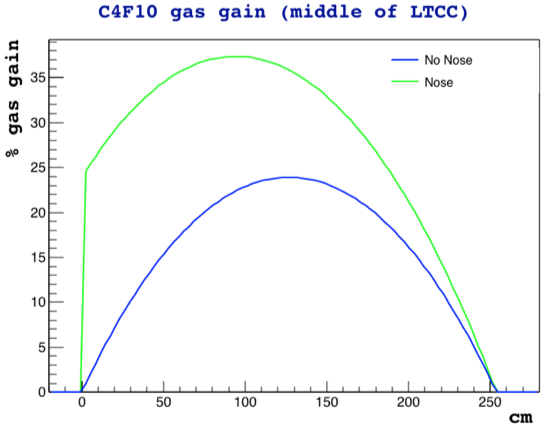
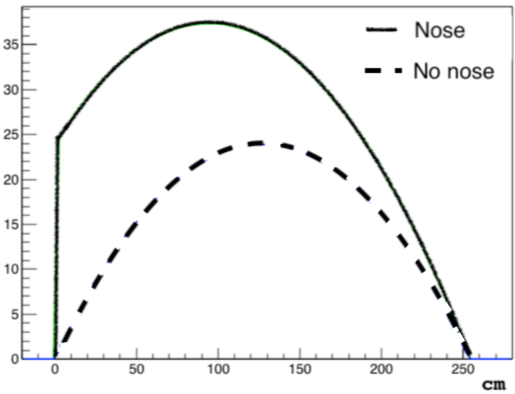
box corrections

diff --git a/ltcc/box.tex b/ltcc/box.tex
@@ -1,13 +1,14 @@
 \subsection{Box cut and support relocation }
 
-In the CLAS12 design upgrade the space between the Drift Chambers and the Forward Time-Of-Flight system was reduced.
-In order to accommodate the LTCC in the new space, the original aluminum frame has been modified with a cut, see \F{boxCut}. The mounting structure
-of the three mirror sets involved in the cut were repositioned: new threaded holes were drilled in the frame, and the old holes were plugged and sealed.
+In the CLAS12 design upgrade the space between the Drift Chambers and the Forward Time-Of-Flight system was reduced from 2 m to 1.5 m.
+In order to accommodate the LTCC in the new space, the original aluminum frame has been modified with a cut, see \F{boxCut}.
+The mounting structure of the three mirror sets involved in the cut were repositioned. For this work, new threaded holes were
+drilled in the frame and the old holes were plugged and sealed.
 
 \begin{figure}
 	\centering
 	\includegraphics[width=1.0\columnwidth, height=0.75\columnwidth]{img/boxCut.png}
-	\caption{The refurbished LTCC frame. Originally the frame walls had a 5m radius sphere centered on the target profile.
+	\caption{The refurbished LTCC box frame. Originally the frame walls had a 5m radius sphere centered on the target profile.
             The side-walls had to be cut near the top part of the box and the three mirror sets involved had to be relocated.
 				At the bottom of the box, a stainless steel nose window support was added to the original detector to increase the gas volume.}
 	\label{fig:boxCut}
@@ -16,33 +17,33 @@ of the three mirror sets involved in the cut were repositioned: new threaded hol
 
 \subsection{Nose addition and window inflation}
 
-In the original design the upstream window followed the spherical curvature of the frame sidewalls. In the new design, the window is left to inflate
-to enlarge the gas volume in order to increase the number of Cherenkov photons. In addition, a ``nose'' support (see \F{boxCut}) has been engineered to
-increase the gas volume.
-The nose dimensions have been optimized to provide the best support while at the same time maximize the gas volume increase. The gas volume increase
-of the final configuration is shown in \F{noseVolume}.
+In the original design the upstream window followed the spherical curvature of the frame sidewalls. In the new system, the window is
+designed to inflate to enlarge the gas volume in order to increase the number of Cherenkov photons. In addition, a ``nose''
+support (see \F{boxCut}) has been engineered to increase the gas volume.
+The nose dimensions have been optimized to provide the necessary support, while at the same time, maximizing the gas volume increase.
+The gas volume increase of the final configuration is shown in \F{noseVolume}.
 
 
 \begin{figure}
 	\centering
 	\includegraphics[width=0.98\columnwidth, height=0.7\columnwidth]{img/noseVolume.png}
 	\caption{The gas volume percentage gains with and without the nose addition compared to the old CLAS configuration as a function of
-            distance from the nose in cm. Blue: the percentage increase due to the window inflation compared to the original flat design.
-            Green: the additional percentage increase due to the nose addition.}
+            distance from the nose in cm. Dashed: the percentage increase due to the window inflation compared to the original flat design.
+            Solid: the additional percentage increase due to the nose addition.}
 	\label{fig:noseVolume}
 \end{figure}
 
 
 \subsection{Back-wall and connectors}
 
-Both the high voltage and the signals connector that link the PMTs inside the hermetical box and the electronics were not
+Both the high voltage and the signal connectors that link the PMTs inside the LTCC box and the electronics were not
 hermetical during CLAS operations and epoxy was used to minimize the leaks from these connectors.
 As part of the back-wall refurbishment, the patch panel was rebuilt and hermetical connectors were used.
 
 The new back wall design is shown in \F{backWall}. The wall is supported by stainless steel bars that enclose a panel made of foam enclosed by
 thin aluminum sheets to minimize the radiation length.
 The new patch panels provide 3 connectors for each PMT: one for high voltage and two for an identical signal coming from the modified PMT base.
-One signal is digitized through flash ADC and the other one through a discriminator TDC.
+One signal is digitized through a flash ADC and the other one through a discriminator TDC.
 
 \begin{figure}
 	\centering
@@ -55,15 +56,20 @@ One signal is digitized through flash ADC and the other one through a discrimina
 
 \subsection{Mirror support spine}
 
-When opened for refurbishment, the mirror support spine of all six LTCC sectors were found to be broken. The spine was an aluminum honeycomb designed to prevent
-the mirrors from breaking under their own weight. It was attached to the box nose and the back-wall. The spine was rigid and broke due to small
+When the LTCC boxes were opened for refurbishment, the mirror support spine of all six LTCC sectors were found to be broken.
+The spine was an aluminum honeycomb designed to prevent the mirrors from breaking under their own weight.
+It was attached to the box nose and the back-wall. The spine was rigid and broke due to small
 (of the order of 0.5 cm) deformations of the box when it was transported and/or installed.
-A new carbon fiber spine, see \F{spine}, was designed capable of floating up to 1 cm, effectively compensating for the non rigid movements of the box.
-The mirrors are linked to the spine through stainless steel cables 0.127 mm thick. The cables were anchored with stainless steel springs with tension varying from 0.5 to 1 Kg.
-The spine was tested by mounting a laser on the box. Its laser line was focused through the elliptical and hyperbolic mirrors to a target in the middle of the covered face of a PMT.
-In order to verify that the detector transportation and/or installation would not break the spine nor affect the mirror alignment, the box was lifted,
-rotated back and forth by 90 degrees, and subjected to small vibrations, see \F{spineTest}. The focused spot on the PMT did not change with any of these movement and the spine
-compensated for the walls deformations.
+A new carbon fiber spine, see \F{spine}, was designed capable of floating up to 1 cm, effectively compensating
+for the non-rigid movements of the box.
+The mirrors are linked to the spine through stainless steel cables 0.127 mm thick.
+The cables are anchored with stainless steel springs with tension varying from 0.5 to 1 kg.
+The spine was tested by mounting a laser on the box. The laser line was focused through the elliptical
+and hyperbolic mirrors to a target in the middle of the covered face of a PMT.
+In order to verify that the detector transportation and/or installation would not break the spine
+nor affect the mirror alignment, the box was lifted, rotated back and forth by 90$^0$, and subjected
+to small vibrations, see \F{spineTest}. The focused spot on the PMT did not change with any of these movement and the spine
+compensated for the box wall deformations.
 
 \begin{figure}
 	\centering
